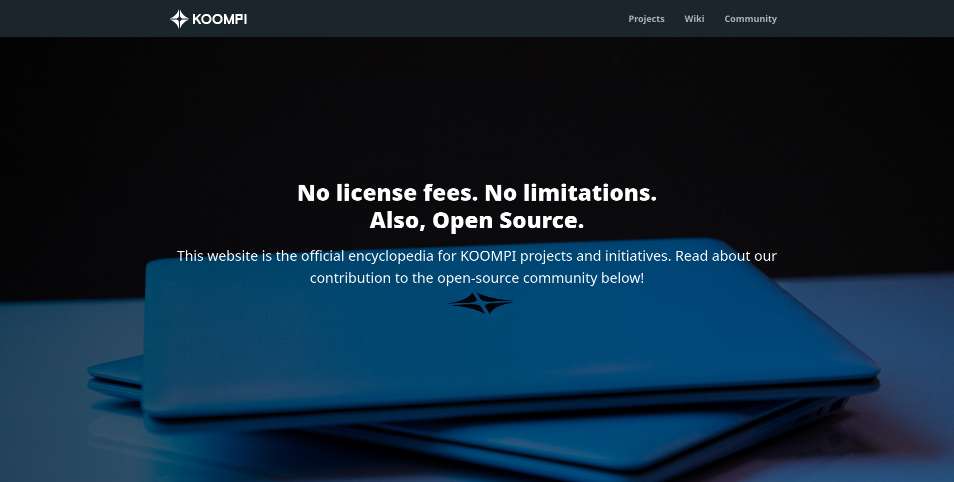
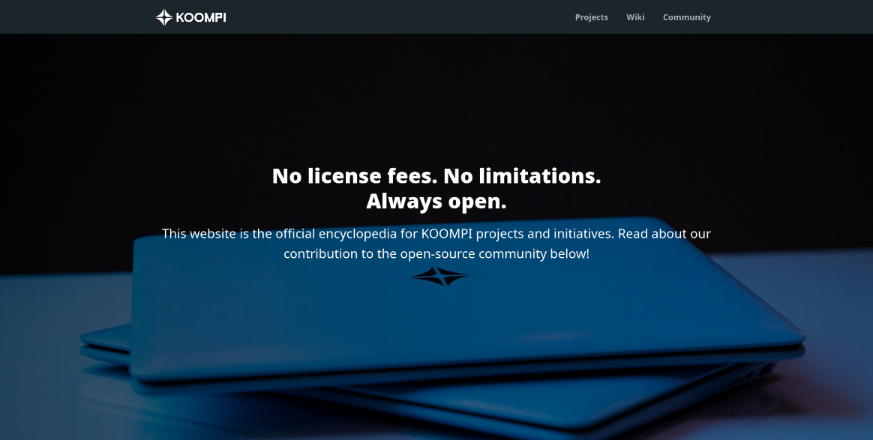
update feedback

diff --git a/src/pages/Home/Home.js b/src/pages/Home/Home.js
@@ -9,75 +9,71 @@ const koompi_logo = require("../../lib/img/koompi-logo-black.png");
 
 function Home() {
   return (
-    <div>
+    <React.Fragment>
+      <div className="home-banner">
+        <div className="container">
+          <div className="banner-contents">
+            <div className="banner-title">
+              <h1>
+                No license fees. No limitations.
+                <br /> Always open.
+              </h1>
+            </div>
+            <p className="banner-desc">
+              This website is the official encyclopedia for KOOMPI projects and
+              initiatives. Read about our contribution to the open-source
+              community below!
+            </p>
+          </div>
+        </div>
+      </div>
+
+      <div className="projects">
+        <div className="container">
+          <center>
+            <h2 className="project-head-title">The Open Source Projects</h2>
+            <p className="project-desc">
+              Read about our ongoing open-source projects and programs.
+            </p>
+          </center>
+          <Row gutter={[24, 24]}>
+            <Col span={24}>
+              <ProjectCard
+                link={"/koompi-os"}
+                img={koompi_logo.default}
+                title="KOOMPI OS"
+                subtitle="Operating System"
+                description="A friendly Linux distribution derive from Achlinux. We aim to deliver the best user experiences by providing a high performance, stable, and reliable operating system."
+              />
+            </Col>
+          </Row>
+        </div>
+      </div>
+
+      <div className="container recentnews">
+        <div className="recentnews-container">
+          <center>
+            <div className="recentnews-header">
+              <h1>News And Events</h1>
+              <p>Read about our activities and milestones.</p>
+            </div>
+          </center>
+
+          {/* -----------blog posts ------------ */}
+          <div>
+            <BlogCard />
+          </div>
+        </div>
+      </div>
+      {/* <Contact /> */}
       <MetaTage
-        title="No license fees. No limitations. Also, Open Source | KOOMPI.org"
+        title="No license fees. No limitations. Always open. | KOOMPI.org"
         urls=" http://www.koompi.org"
         desc="No license fees. No limitations. Also, Open Source."
         // thumbnail="./images/thumbnail/homepage.png"
-        thumbnail="http://www.koompi.org/images/thumbnail/homepage.png"
+        thumbnail="https://www.koompi.org/images/thumbnail/homepage.png"
       />
-
-      <React.Fragment>
-        <div className="home-banner">
-          <div className="container">
-            <div className="banner-contents">
-              <div className="banner-title">
-                <h1>
-                  No license fees. No limitations. <br />
-                  Also, Open Source.
-                </h1>
-              </div>
-
-              <p className="banner-desc">
-                This website is the official encyclopedia for KOOMPI projects
-                and initiatives. Read about our contribution to the open-source
-                community below!
-              </p>
-            </div>
-          </div>
-        </div>
-
-        <div className="projects">
-          <div className="container">
-            <center>
-              <h2 className="project-head-title">The Open Source Projects</h2>
-              <p className="project-desc">
-                Read about our ongoing open-source projects and programs.
-              </p>
-            </center>
-            <Row gutter={[24, 24]}>
-              <Col span={24}>
-                <ProjectCard
-                  link={"/koompi-os"}
-                  img={koompi_logo.default}
-                  title="KOOMPI OS"
-                  subtitle="Operating System"
-                  description="A friendly Linux distribution derive from Achlinux. We aim to deliver the best user experiences by providing a high performance, stable, and reliable operating system."
-                />
-              </Col>
-            </Row>
-          </div>
-        </div>
-
-        <div className="container recentnews">
-          <div className="recentnews-container">
-            <center>
-              <div className="recentnews-header">
-                <h1>News And Events</h1>
-                <p>Read about our activities and milestones.</p>
-              </div>
-            </center>
-
-            {/* -----------blog posts ------------ */}
-            <div>
-              <BlogCard />
-            </div>
-          </div>
-        </div>
-        {/* <Contact /> */}
-      </React.Fragment>
-    </div>
+    </React.Fragment>
   );
 }
 

diff --git a/src/components/MetaTage.js b/src/components/MetaTage.js
@@ -1,20 +1,27 @@
-import MetaTags from "react-meta-tags";
+import { Helmet } from "react-helmet";
 
 const MetaTage = ({ urls, title, desc, thumbnail }) => {
   return (
     <div>
-      <MetaTags>
-        <title>{title}</title>
-        <meta property="og:image" content={thumbnail} />
-        <meta property="og:title" content={title} />
+      <Helmet>
+        <title>{title}</title>
         <meta name="description" content={desc} />
-        <meta data-react-helmet="true" property="og:url" content={urls} />
         <meta name="twitter:card" content="summary_large_image" />
-        <meta property="twitter:url" content={urls} />
-        <meta property="twitter:title" content={title} />
-        <meta property="twitter:description" content={desc} />
-        <meta property="twitter:image" content={thumbnail} />
-      </MetaTags>
+        <meta name="twitter:site" content="@koompios" />
+        <meta name="twitter:creator" content="@koompios" />
+        <meta name="twitter:title" content={title} />
+        <meta name="twitter:description" content={desc} />
+        <meta name="twitter:image" content={thumbnail} />
+        <meta property="og:title" content={title} />
+        <meta property="og:description" content={desc} />
+        <meta property="og:image" content={thumbnail} />
+        <meta property="og:url" content={urls} />
+        <meta property="og:site_name" content="koompi.org" />
+        <meta property="og:locale" content="en_US" />
+        <meta property="og:type" content="website" />
+        {/* <meta property="fb:app_id" content="ID_APP_FACEBOOK" /> */}
+      </Helmet>
+      
     </div>
   );
 };

diff --git a/src/pages/Fifi/Fifi.js b/src/pages/Fifi/Fifi.js
@@ -10,13 +10,6 @@ import MetaTage from "../../components/MetaTage";
 function Fifi() {
   return (
     <React.Fragment>
-      <MetaTage
-        title="As part of our Internet-For-All initiative, KOOMPI Fi-Fi is a wireless internet infrastructure | KOOMPI.org"
-        urls=" http://www.koompi.org/fifi"
-        desc="As part of our Internet-For-All initiative, KOOMPI Fi-Fi is a wireless internet infrastructure designed for schools and neighboring communities providing fast fiber internet at a user cost of only USD 1.25 per month for up to two devices."
-        // thumbnail="./images/thumbnail/fifi-banner.png"
-        thumbnail="http://www.koompi.org/images/thumbnail/fifi-banner.png"
-      />
       <div className="fifi">
         <div className="fifi-banner">
           <div className="container">
@@ -272,6 +265,13 @@ function Fifi() {
           </div>
         </div>
       </div>
+      <MetaTage
+        title="As part of our Internet-For-All initiative, KOOMPI Fi-Fi is a wireless internet infrastructure | KOOMPI.org"
+        urls=" http://www.koompi.org/fifi"
+        desc="As part of our Internet-For-All initiative, KOOMPI Fi-Fi is a wireless internet infrastructure designed for schools and neighboring communities providing fast fiber internet at a user cost of only USD 1.25 per month for up to two devices."
+        // thumbnail="./images/thumbnail/fifi-banner.png"
+        thumbnail="https://www.koompi.org/images/thumbnail/fifi-banner.png"
+      />
     </React.Fragment>
   );
 }

diff --git a/src/pages/Robotic/Robotic.js b/src/pages/Robotic/Robotic.js
@@ -224,14 +224,6 @@ function Robotic() {
 
   return (
     <React.Fragment>
-      <MetaTage
-        title="As part of KOOMPI ACADEMY, Robotic Program is an extension initiative that focuses on an introduction to programming, robotic engineering and electronics | KOOMPI.org"
-        urls=" http://www.koompi.org/robotic"
-        desc="As part of KOOMPI ACADEMY, Robotic Program is an extension initiative that focuses on an introduction to programming, robotic engineering and electronics."
-        // thumbnail="./images/thumbnail/robotic-banner.png"
-        thumbnail="http://www.koompi.org/images/thumbnail/robotic-banner.png"
-      />
-
       <div className="robotic">
         <div className="container">
           <RoboticBanner />
@@ -242,6 +234,13 @@ function Robotic() {
           <ProgramsRobotic />
         </div>
       </div>
+      <MetaTage
+        title="As part of KOOMPI ACADEMY, Robotic Program is an extension initiative that focuses on an introduction to programming, robotic engineering and electronics | KOOMPI.org"
+        urls=" http://www.koompi.org/robotic"
+        desc="As part of KOOMPI ACADEMY, Robotic Program is an extension initiative that focuses on an introduction to programming, robotic engineering and electronics."
+        // thumbnail="./images/thumbnail/robotic-banner.png"
+        thumbnail="https://www.koompi.org/images/thumbnail/robotic-banner.png"
+      />
     </React.Fragment>
   );
 }

diff --git a/src/pages/KoompiOS/KoompiOS.js b/src/pages/KoompiOS/KoompiOS.js
@@ -266,13 +266,6 @@ function KoompiOS() {
 
   return (
     <div>
-      <MetaTage
-        title="No license fees. No limitations. Also, Open Source | KOOMPI.org"
-        urls=" http://www.koompi.org/koompi-os"
-        desc="A lightweight, decentralized, crypto/security-oriented open-source operating system derived from Archlinux. KOOMPI OS is built on a kernel and provides an environment for multiple applications and software to run simultaneously."
-        // thumbnail="./images/thumbnail/koompi-os-banner.png"
-        thumbnail="http://www.koompi.org/images/thumbnail/koompi-os-banner.png"
-      />
       <div className="koompi-os">
         <div className="koompi-os-intro">
           <div className="container">
@@ -287,6 +280,13 @@ function KoompiOS() {
           <Goals />
         </div>
       </div>
+      <MetaTage
+        title="No license fees. No limitations. Always open. | KOOMPI.org"
+        urls=" http://www.koompi.org/koompi-os"
+        desc="A lightweight, decentralized, crypto/security-oriented open-source operating system derived from Archlinux. KOOMPI OS is built on a kernel and provides an environment for multiple applications and software to run simultaneously."
+        // thumbnail="./images/thumbnail/koompi-os-banner.png"
+        thumbnail="https://www.koompi.org/images/thumbnail/koompi-os-banner.png"
+      />
     </div>
   );
 }

diff --git a/src/pages/Onelab/Onelab.js b/src/pages/Onelab/Onelab.js
@@ -324,13 +324,6 @@ function Onelab() {
 
   return (
     <React.Fragment>
-      <MetaTage
-        title="Update. Synchronize. Connect. Efficient laboratory management with minimal internet dependency | KOOMPI.org"
-        urls=" http://www.koompi.org/onelab"
-        desc="Update. Synchronize. Connect. Efficient laboratory management with minimal internet dependency."
-        // thumbnail="./images/thumbnail/onelab-banner.png"
-        thumbnail="http://www.koompi.org/images/thumbnail/onelab-banner.png"
-      />
       <div className="onelab">
         <div className="container">
           <BannerOnelab />
@@ -344,6 +337,13 @@ function Onelab() {
           {/* <Contact /> */}
         </div>
       </div>
+      <MetaTage
+        title="Update. Synchronize. Connect. Efficient laboratory management with minimal internet dependency | KOOMPI.org"
+        urls=" http://www.koompi.org/onelab"
+        desc="Update. Synchronize. Connect. Efficient laboratory management with minimal internet dependency."
+        // thumbnail="./images/thumbnail/onelab-banner.png"
+        thumbnail="https://www.koompi.org/images/thumbnail/onelab-banner.png"
+      />
     </React.Fragment>
   );
 }

diff --git a/src/pages/Sala/Sala.js b/src/pages/Sala/Sala.js
@@ -11,13 +11,6 @@ const why = require("../../lib/img/why2.png");
 function Sala() {
   return (
     <React.Fragment>
-      <MetaTage
-        title="Virtual platform for students, teachers, and content creators. | KOOMPI.org"
-        urls=" http://www.koompi.org/sala"
-        desc="Virtual platform for students, teachers, and content creators."
-        // thumbnail="./images/thumbnail/sala-banner.png"
-        thumbnail="http://www.koompi.org/images/thumbnail/sala-banner.png"
-      />
       <div className="sala">
         <div className="koompi-os-intro">
           <div className="container">
@@ -133,6 +126,13 @@ function Sala() {
         </div>
         {/* <Contact /> */}
       </div>
+      <MetaTage
+        title="Virtual platform for students, teachers, and content creators. | KOOMPI.org"
+        urls=" http://www.koompi.org/sala"
+        desc="Virtual platform for students, teachers, and content creators."
+        // thumbnail="./images/thumbnail/sala-banner.png"
+        thumbnail="https://www.koompi.org/images/thumbnail/sala-banner.png"
+      />
     </React.Fragment>
   );
 }

diff --git a/src/pages/legals/privacy-policy.js b/src/pages/legals/privacy-policy.js
@@ -5,11 +5,11 @@ const PrivacyPolicy = () => {
   return (
     <React.Fragment>
       <MetaTage
-        title="No license fees. No limitations. Also, Open Source | KOOMPI.org"
+        title="No license fees. No limitations. Always open. | KOOMPI.org"
         urls=" http://www.koompi.org/privacy-policy"
         desc="No license fees. No limitations. Also, Open Source."
         // thumbnail="./images/thumbnail/policy.png"
-        thumbnail="http://www.koompi.org/images/thumbnail/policy.png"
+        thumbnail="https://www.koompi.org/images/thumbnail/policy.png"
       />
       <div className="container">
         <div className="legals-background">

diff --git a/src/pages/legals/terms-and-condition.js b/src/pages/legals/terms-and-condition.js
@@ -5,11 +5,11 @@ const Terms = () => {
   return (
     <React.Fragment>
       <MetaTage
-        title="No license fees. No limitations. Also, Open Source | KOOMPI.org"
+        title="No license fees. No limitations. Always open. | KOOMPI.org"
         urls=" http://www.koompi.org/terms-and-conditions"
         desc="No license fees. No limitations. Also, Open Source."
         // thumbnail="./images/thumbnail/terms.png"
-        thumbnail="http://www.koompi.org/images/thumbnail/terms.png"
+        thumbnail="https://www.koompi.org/images/thumbnail/terms.png"
       />
 
       <div className="container">
